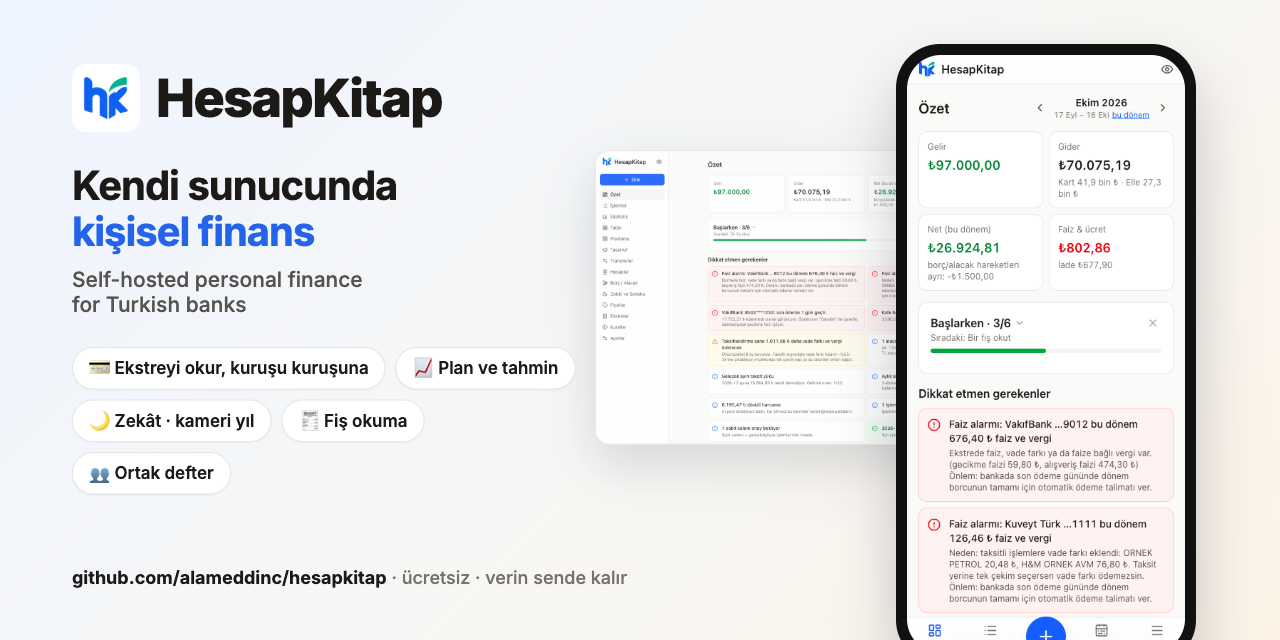
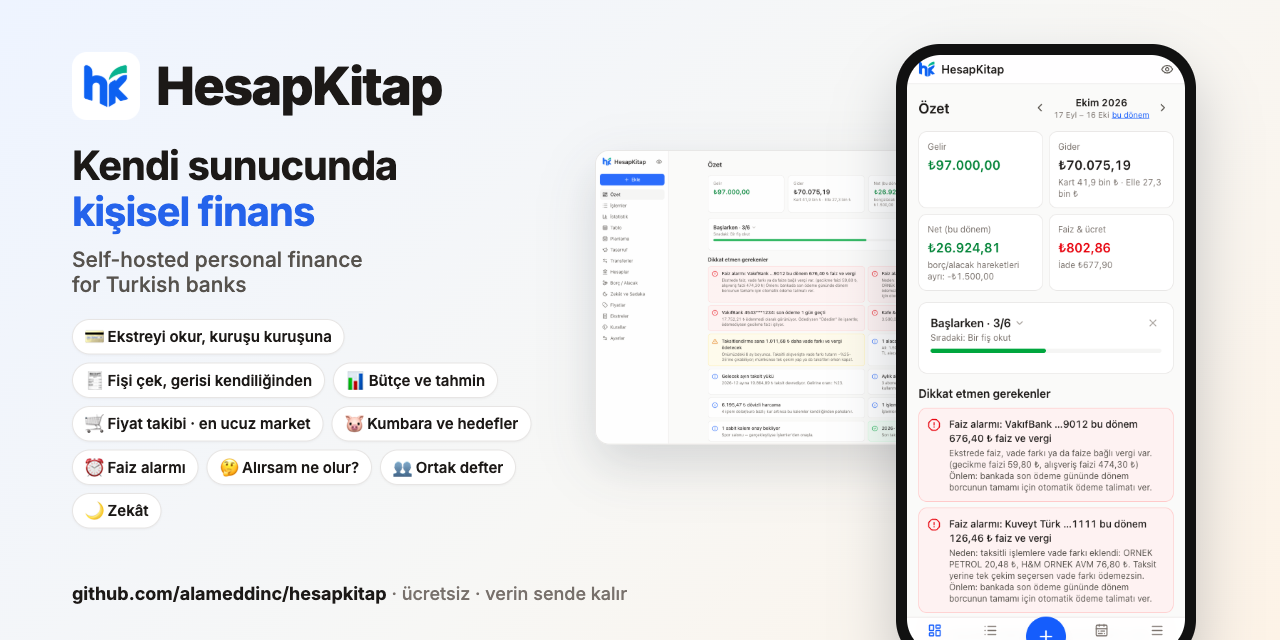
docs: vitrinde genel finans öne, zekât özelliklerden biri; fiş okuma ve akıllı alışveriş vurgusu
Claude-Session: https://claude.ai/code/session_018Cq9Ng4VXGa3eQf53KyPDc

diff --git a/README.en.md b/README.en.md
@@ -6,8 +6,8 @@
 
 <p align="center">
   <b>Drop your bank statement, HesapKitap does the rest — and your data stays with you.</b><br>
-  Self-hosted personal finance built for Turkish banks: credit card statements, bank exports, receipts,<br>
-  budgets and forecasts, gold, savings jars, zakat and charity.
+  Self-hosted personal finance built for Turkish banks: statement reading, snap-a-receipt, budgets and forecasts,<br>
+  price tracking, savings jars, interest alarm, a shared household book — and zakat too.
 </p>
 
 <p align="center">
@@ -42,21 +42,25 @@ and turns them into a monthly picture, a forecast and reminders — on your own 
   - Other banks: a generic reader tries date and number formats, amount columns and payment signs until the equation
     holds, then saves that layout as a small template (no personal data) and can share it with the community.
   - Optional Gemini fallback.
-- **Receipts without sending them anywhere** — local OCR (Tesseract, Turkish), or Gemini if you add a key. Picks up the
-  merchant, total, installments and the card's last 4 digits.
+- **Snap a receipt, done** — merchant, total, line items, installments and the card's last 4 digits are filled in for
+  you. Works with local OCR (Tesseract, Turkish) so the photo never leaves your server, or with Gemini if you add a key.
+- **Smart shopping**
+  - Price tracking from your receipts: where you bought it cheapest, how prices moved.
+  - *"What if I buy it?"* simulator: installment and surcharge cost, effect on the coming months.
+  - Subscription audit and savings goals.
 - **Plan ahead**
   - Open card cycle: what you've spent so far and the likely amount at cut-off.
   - Installment schedule and recurring items (rent, salary from gross to net with Turkish payroll tax).
   - Suggestions for payments that repeat every month, and a cash-flow forecast.
 - **Interest alarm** — explains *why* you were charged interest (late payment, partial payment, installment surcharge).
-- **Zakat and charity**
-  - Per-person nisab on the lunar year, gold and foreign currency, missed past years.
-  - Ramadan, fitra and Qurban reminders.
 - **Shared household book** — invite your spouse to the same book; hide specific cards, accounts, interest, pages or
   single transactions from them. Hiding is enforced on the server, not just in the UI.
 - **Phone-first**
   - Installable PWA and the share sheet on Android/iOS.
   - A one-tap *"Snap receipt"* iOS shortcut (lock screen, Action button, Back Tap).
+- **Zakat and charity**
+  - Per-person nisab on the lunar year, gold and foreign currency, missed past years.
+  - Ramadan, fitra and Qurban reminders.
 - **Undo any upload**, a suspicious-change check (balance dropping to zero, huge jumps), a month-end digest and a
   yearly summary.
 - **Your data**

diff --git a/README.md b/README.md
@@ -6,7 +6,8 @@
 
 <p align="center">
   <b>Ekstreni bırak, gerisini HesapKitap yapsın — verin sende kalır.</b><br>
-  Kredi kartı ekstreleri, banka dökümleri, fişler, plan, altın, kumbara, zekât ve sadaka.<br>
+  Ekstre ve döküm okuma, fişi çekince kendiliğinden kayıt, bütçe ve tahmin, fiyat takibi, kumbara, faiz alarmı,<br>
+  ortak defter — zekât ve sadaka da dahil.<br>
   Türkiye'deki bankalar ve alışkanlıklar için, kendi sunucunda çalışan kişisel finans uygulaması.
 </p>
 
